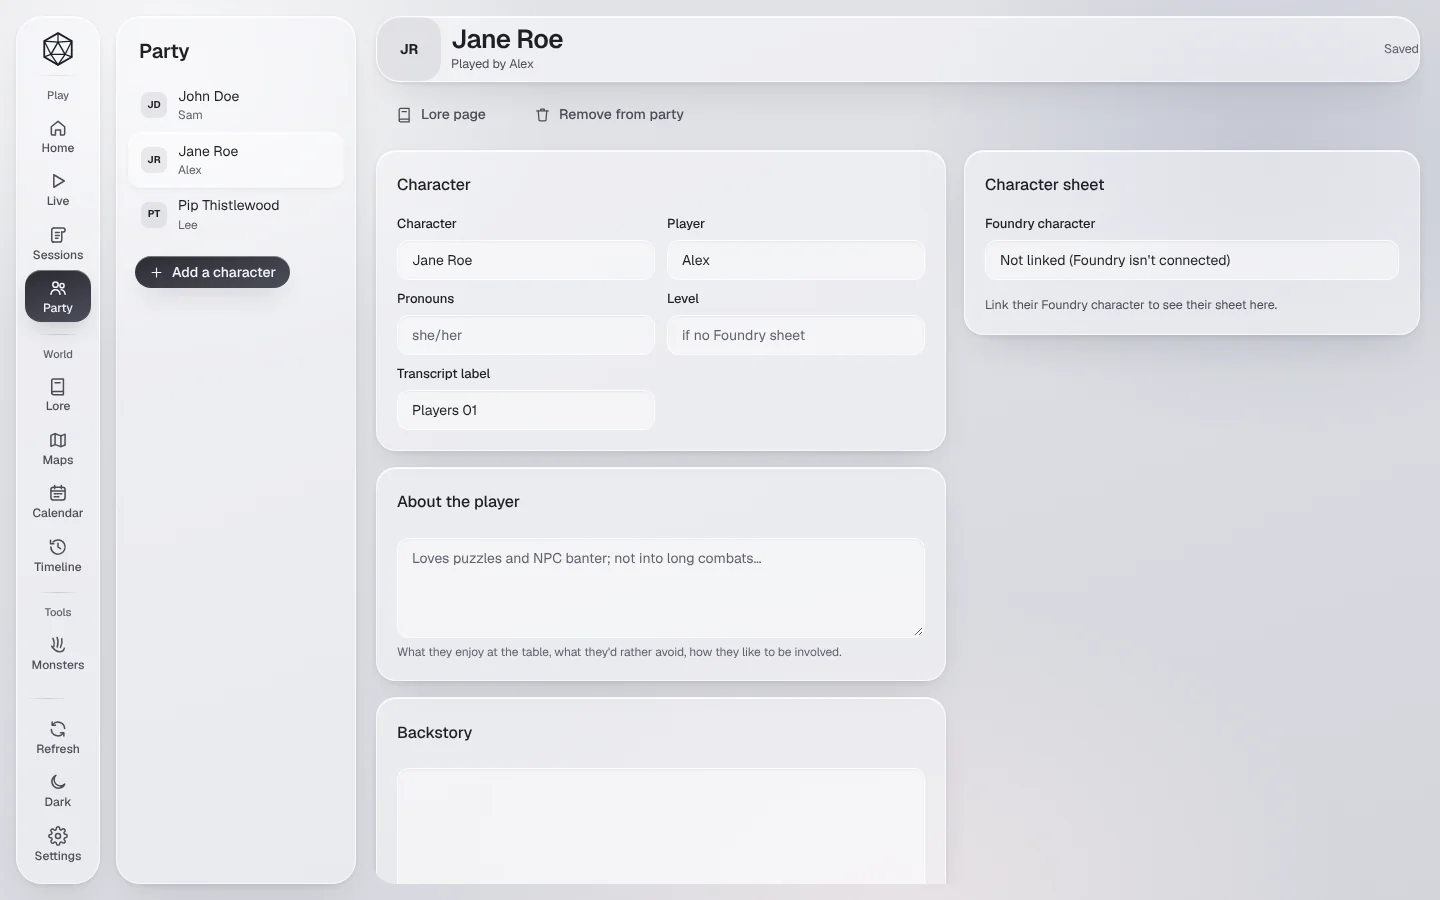
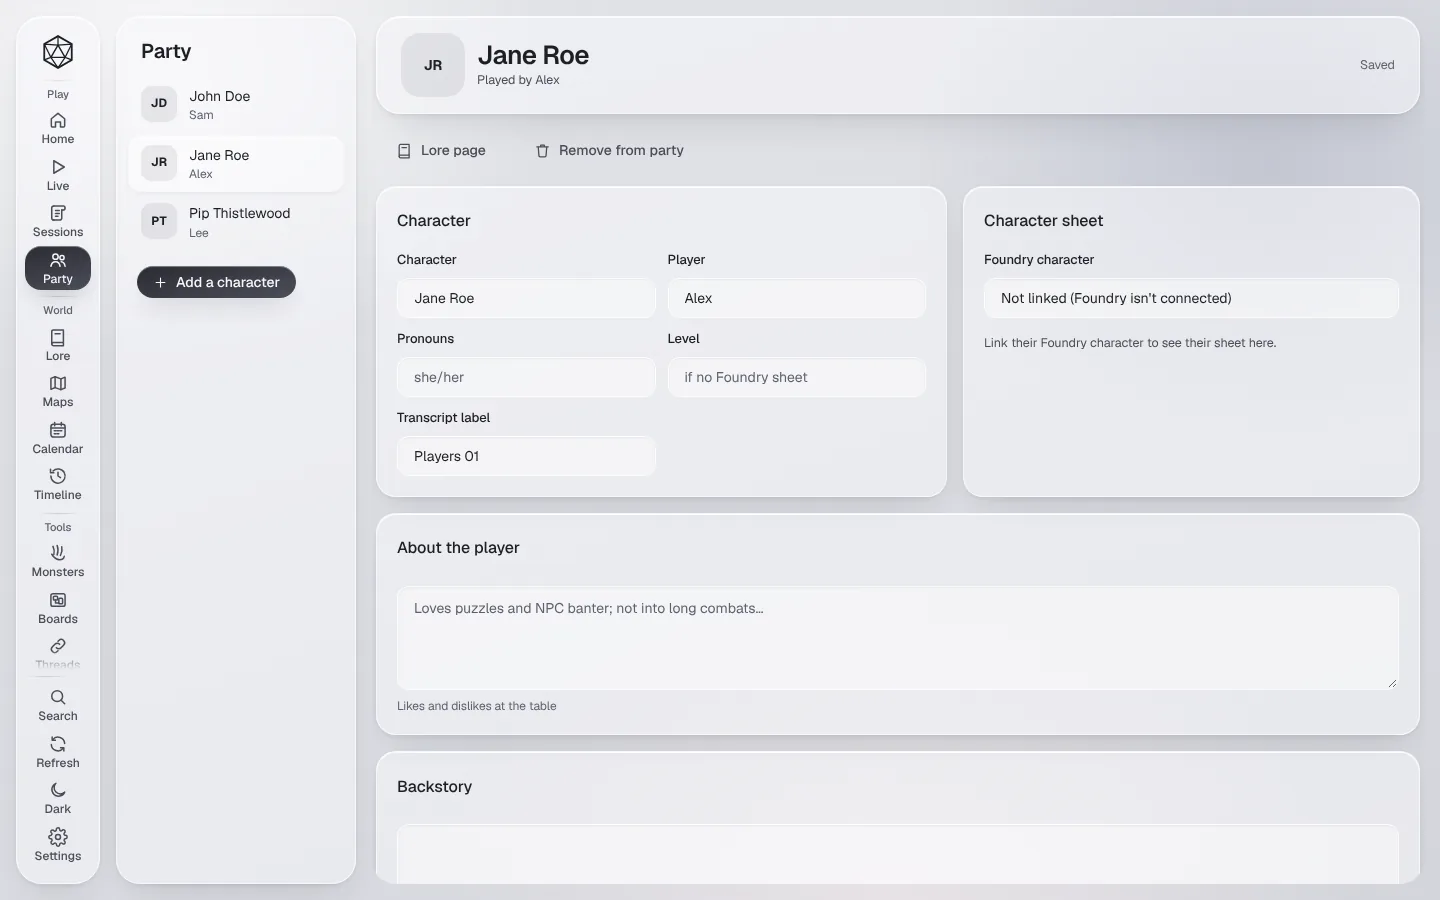
Retake the screenshots with a script (#62)
* Retake screenshots with a script

docs/screenshots/take.py takes all 24 from a fresh demo campaign with a headless browser, in its own temporary data folder. Paths are shown as ~/Campaigns so no temp folder or username appears. CONTRIBUTING.md has the command. Refs #53.

* Screenshots: fixes from review

Stop if the port is taken instead of talking to a running Lore Studio, hide the home folder too (the Foundry data folder includes it), skip the browser tab, scroll the transcript into view, and let the server exit before cleanup. Refs #53.

* Retake screenshots with the layout polish

* Retake screenshots with the Discord preview fix

diff --git a/docs/screenshots/take.py b/docs/screenshots/take.py
@@ -1,0 +1,141 @@
+# Retakes every screenshot in this folder from a fresh copy of the demo campaign.
+#   python -m pip install playwright pillow && python -m playwright install chromium
+#   python docs/screenshots/take.py
+import json
+import os
+import socket
+import subprocess
+import sys
+import tempfile
+import time
+import urllib.request
+from io import BytesIO
+from pathlib import Path
+
+from PIL import Image
+from playwright.sync_api import sync_playwright
+
+HERE = Path(__file__).resolve().parent
+ROOT = HERE.parents[1]
+SIZE = {"width": 1440, "height": 900}
+PORT = 8765   # the usual port, so the Foundry page shows a familiar address
+# Shown instead of the temporary campaign folder and the home folder, so no temp path or username appears.
+SHOWN_PATH = "~/Campaigns/The Sunken Crown (demo)"
+# The server, without the browser tab it would open in --browser mode.
+SERVER = "import runpy, sys, webbrowser; webbrowser.open = lambda *a, **k: None; sys.argv = ['main.py'] + sys.argv[1:]; runpy.run_path('main.py', run_name='__main__')"
+
+HIDE_PATH_JS = """(pairs) => {
+  const swap = (s) => pairs.reduce((t, [from, to]) => t.split(from).join(to), s);
+  const walk = document.createTreeWalker(document.body, NodeFilter.SHOW_TEXT);
+  for (let n; (n = walk.nextNode());) n.nodeValue = swap(n.nodeValue);
+  for (const el of document.querySelectorAll("input, textarea")) { el.value = swap(el.value); el.placeholder = swap(el.placeholder); }
+}"""
+
+
+def main():
+    base = f"http://127.0.0.1:{PORT}"
+
+    def api(method, *args):
+        req = urllib.request.Request(f"{base}/api/{method}", json.dumps({"args": list(args)}).encode(),
+                                     {"Content-Type": "application/json"})
+        r = json.load(urllib.request.urlopen(req))
+        if r.get("error"):
+            raise RuntimeError(f"{method}: {r['error']}")
+        return r.get("result")
+
+    # a Lore Studio already on the port would get the demo campaign instead of this script's own copy
+    with socket.socket() as s:
+        if s.connect_ex(("127.0.0.1", PORT)) == 0:
+            sys.exit(f"Something is already using port {PORT}. Close Lore Studio and run this again.")
+    with tempfile.TemporaryDirectory(ignore_cleanup_errors=True) as tmp:
+        # its own app data folder, so the real settings and campaigns are never touched
+        env = {**os.environ, "LORE_STUDIO_HOME": str(Path(tmp) / "home")}
+        server = subprocess.Popen([sys.executable, "-c", SERVER, "--browser", "--port", str(PORT)], cwd=ROOT, env=env,
+                                  stdout=subprocess.DEVNULL, stderr=subprocess.DEVNULL)
+        try:
+            for _ in range(100):
+                if server.poll() is not None:
+                    sys.exit("Lore Studio didn't start. Run `python main.py --browser` to see why.")
+                try:
+                    urllib.request.urlopen(base, timeout=1)
+                    break
+                except OSError:
+                    time.sleep(0.2)
+            else:
+                sys.exit("Lore Studio didn't start in 20 seconds.")
+            take_all(api, base, tmp)
+        finally:
+            server.terminate()
+            server.wait(10)
+
+
+def take_all(api, base, tmp):
+    root = api("create_demo", str(Path(tmp) / "campaigns"))["path"]
+    # the demo has no monsters; these match the encounter in the screenshots
+    owlbear = api("monster_new", "srd", "owlbear")["id"]
+    api("monster_new", "srd", "wolf")
+    enc = api("encounter_save", {"name": "Ambush at the mill", "session": "004-voices-in-the-water",
+                                 "groups": [{"kind": "monster", "ref": owlbear, "count": 1},
+                                            {"kind": "srd", "ref": "wolf", "count": 2}]})["id"]
+    api("save_discord_config", {"webhooks": [{"name": "#session-recaps",
+                                              "url": "https://discord.com/api/webhooks/1/demo"}]})
+    home = str(Path.home())
+    swaps = [[p, SHOWN_PATH] for p in (root, root.replace("\\", "/"))] + [[p, "~"] for p in (home, home.replace("\\", "/"))]
+    party = {p["character"]: p["id"] for p in api("party")["party"]}
+
+    shots = [
+        ("home", "home", {}),
+        ("sessions", "sessions", {"id": "002-lanterns-in-the-fog", "tab": "recap"}),
+        ("recap", "sessions", {"id": "003-the-drowned-chapel", "tab": "recap"}),
+        ("transcript", "sessions", {"id": "003-the-drowned-chapel", "tab": "transcript"}),
+        ("plan", "sessions", {"id": "004-voices-in-the-water", "tab": "notes"}),
+        ("live", "live", {"id": "004-voices-in-the-water"}),
+        ("party", "party", {"id": party["Jane Roe"]}),
+        ("lore", "lore", {"id": "Characters/John Doe"}),
+        ("edit", "lore", {"id": "Characters/John Doe", "edit": True}),
+        ("graph", "graph", {}),
+        ("maps", "maps", {"id": "westmarch"}),
+        ("calendar", "calendar", {}),
+        ("timeline", "timeline", {}),
+        ("monsters", "monsters", {"id": owlbear}),
+        ("encounter", "monsters", {"enc": enc}),
+        ("boards", "boards", {"id": api("boards")[0]["id"]}),
+        ("threads", "threads", {"view": "review"}),
+        ("clocks", "clocks", {}),
+        ("handouts", "handouts", {}),
+        ("chat", "chat", {}),
+        ("foundry", "settings", {"section": "foundry"}),
+        ("playersite", "settings", {"section": "playersite"}),   # before the lore book is built
+        ("discordpost", "sessions", {"id": "002-lanterns-in-the-fog", "tab": "recap"}),
+    ]
+    with sync_playwright() as p:
+        browser = p.chromium.launch()
+        page = browser.new_page(viewport=SIZE)
+        page.goto(base)
+        page.wait_for_function("window.ctx && window.ctx.boot")
+        for name, page_id, params in shots:
+            page.evaluate("([id, params]) => window.ctx.go(id, params)", [page_id, params])
+            page.wait_for_timeout(1500)
+            if name == "discordpost":
+                page.get_by_role("button", name="Post to Discord").click()
+                page.wait_for_timeout(1000)
+            if name == "transcript":   # past the Spotlight card, so transcript lines show
+                page.evaluate("document.querySelector('.main').scrollBy(0, 330)")
+            page.evaluate(HIDE_PATH_JS, swaps)
+            save(page, name)
+        tid = api("player_site_build")
+        while (api("task", tid) or {}).get("status") == "running":
+            time.sleep(0.5)
+        page.goto(base + api("player_site")["preview"])
+        page.wait_for_timeout(1000)
+        save(page, "lorebook")
+        browser.close()
+
+
+def save(page, name):
+    Image.open(BytesIO(page.screenshot())).save(HERE / f"{name}.webp", quality=82, method=6)
+    print(name)
+
+
+if __name__ == "__main__":
+    main()

diff --git a/CONTRIBUTING.md b/CONTRIBUTING.md
@@ -39,6 +39,18 @@ python main.py --browser --port 8765 &
 node tests/smoke.mjs
 ```
 
+## Screenshots
+
+The screenshots in `docs/screenshots/` (used by the README and the wiki) come from a fresh copy of the demo campaign. To retake all of them after a UI change:
+
+```
+python -m pip install playwright pillow
+python -m playwright install chromium
+python docs/screenshots/take.py
+```
+
+It runs its own Lore Studio on port 8765 with a temporary data folder, so your settings and campaigns aren't touched. If something is already using that port, it stops and says so.
+
 ## How the code is laid out
 
 - `studio/`: the backend. `api/` is everything the UI can call, one file per area (app, campaigns, lore, sessions, ai, world, monsters, foundry, discord, obs); most features have their own module.
